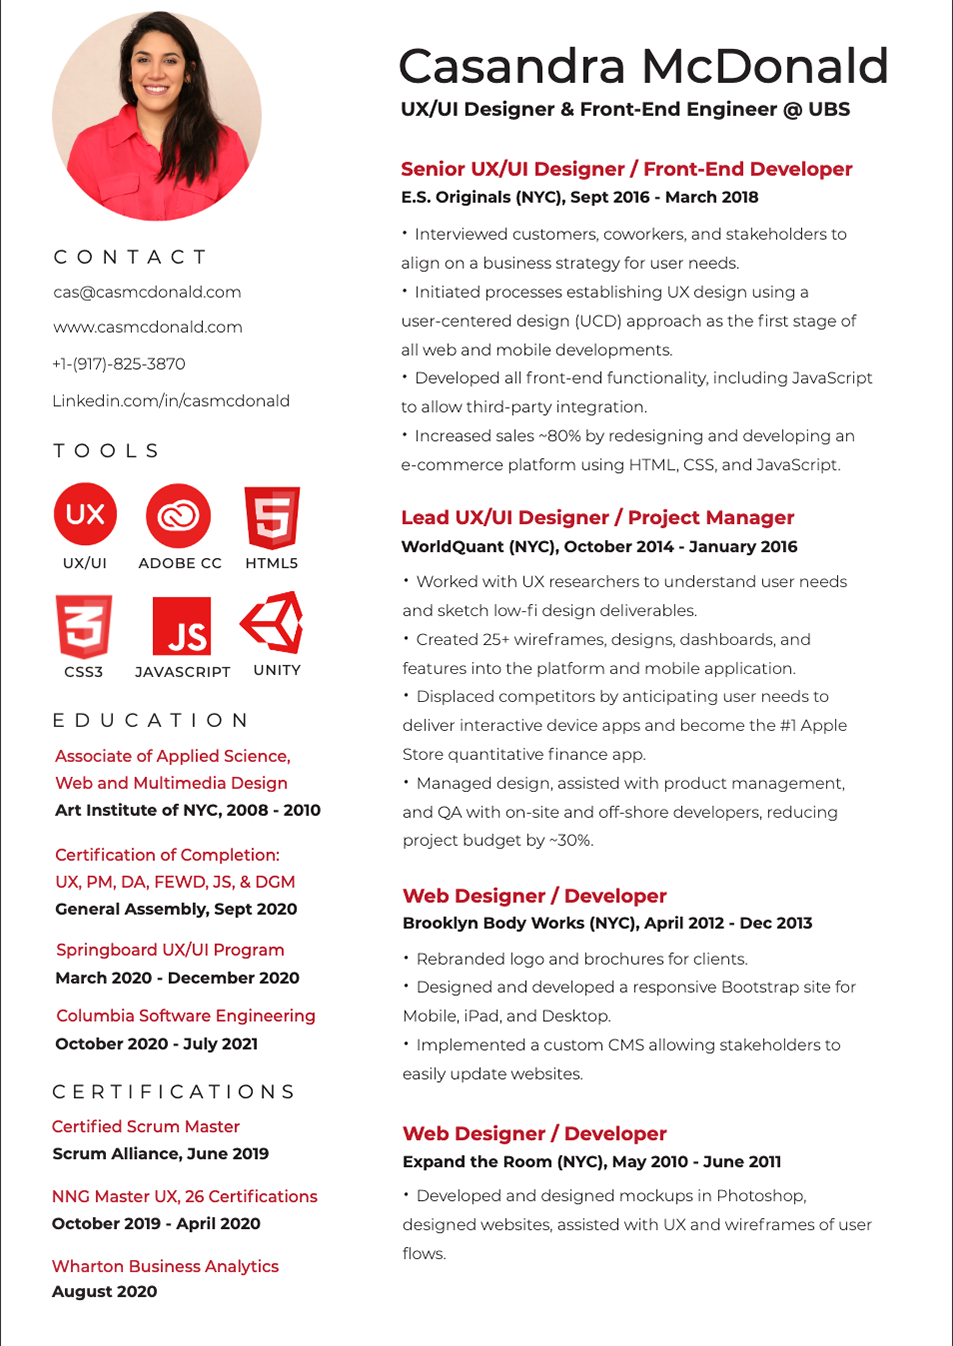
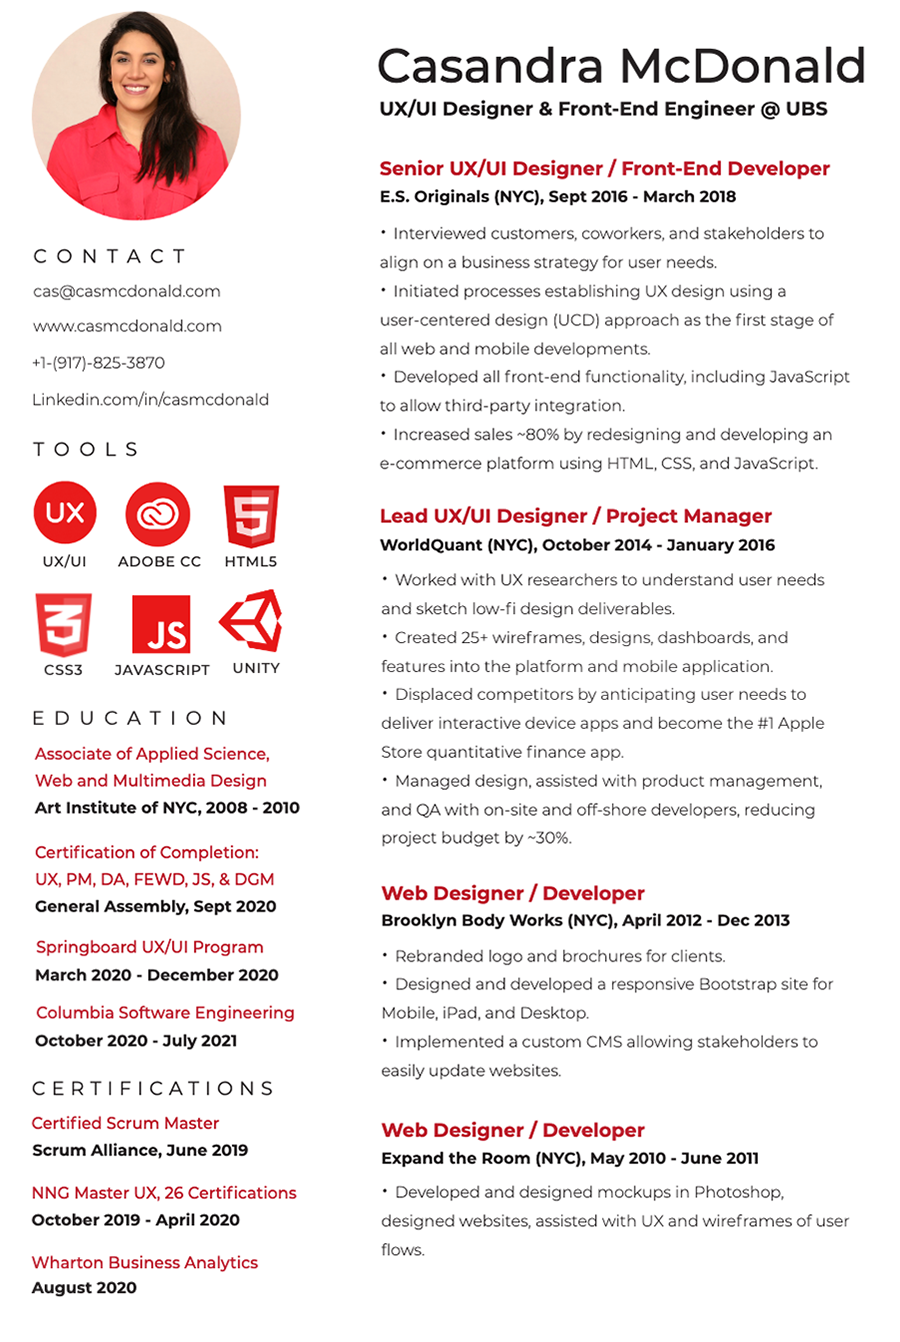
updates to padding, added resume images.

diff --git a/index.html b/index.html
@@ -31,14 +31,8 @@
             <img src="assets/images/cas.jpg" alt="Cas Profile Photo"></img>
           </figure>
           <p><strong>Casandra McDonald</strong> is a NN/g Master Certified UX / UI Designer and Front-End Web Engineer, with over 10+ years of experience based in New York City. Her goal is to help business grow by designing and developing web and native applications. She currently runs her own consulting business as a designer and developer for clients based in NYC, specializing in the finance and e-commerce industries.</p>
-        </section>
-        <section>
           <p>As a <strong>UX designer</strong>, I believe in user-centric design, and enforce those principles even throughout the design process. I follow the double diamond framework when starting any UX project: Discover, Design, Develop, Deliver. I work with companies on business strategy, perform competitive analysis, conduct user interviews, contextual inquiries, and usability testing. I also develop user personas, user flows, and feature prioritization with MVP focus. I possess a keen understanding of market dynamics that impact the successful launch of applications. </p>
-        </section>
-        <section>
           <p>As a <strong>UI designer</strong>, I follow all up to date HCI and W3C guidelines for accessibly on desktop and mobile applications. I would describe my work as clean, beautiful, and asthetically pleasing. I conform to a "less is more" methodology and apply that approach to reduce cognitive friction throughout all of my design deliverables. I create sketches and low, mid, and high fidelity mockups using Adobe XD and am well-versed in creating extremely detailed interactive prototypes with custom animations using XD and Principle. I frequently work with development teams to ensure pixel perfect asset delivery and create follow up documentation and style guides. </p>
-        </section>
-        <section>
           <p>As a <strong>front-end engineer</strong>, my goal is to write clean, semantic, accessible code. I work with HTML5, CSS3, JavaScript, and jQuery and PHP. I have hand coded over 200+ responsive websites and have experience building apps and APIs with the Jquery, Firebase, Node.js, Express and Heroku. I am currently in school at Columbia University Software Engineering Bootcamp until Summer 2021 to expand my existing skillset in the Full Stack Development realm. </p>
         </section>
         <hr>
@@ -46,26 +40,26 @@
           <h2>Featured Work.</h2>
           <div class="first-featured-work">
             <figure>
-              <a href="https://www.s3partners.com" target="_blank"><img src="./assets/images/first-work.png" alt="First Featured Deployed Work"></img></a>
+              <a href="https://www.s3partners.com" target="_blank"><img src="./assets/images/first-work.png" alt="First Featured Work Finance Application"></img></a>
             </figure>
             <p>Fintech app and website designed and developed in HTML/CSS/JS and Angular.</p>
           </div>
           <div class="carousel">
             <div class="carousel-item">
               <figure>
-                <a href="https://uxfol.io/project/040d8f48/Websim-iOS-App" target="_blank"> <img src="./assets/images/work-1.jpg" alt="Second Featured Work"></a>
+                <a href="https://uxfol.io/project/040d8f48/Websim-iOS-App" target="_blank"> <img src="./assets/images/work-1.jpg" alt="Second Featured Work Quant Finance App"></a>
               </figure>
               <p>Quantative Finance App case study which features UX/UI design.</p>
             </div>
             <div class="carousel-item">
               <figure>
-                <a href="https://uxfol.io/project/045f5511/Jolt" target="_blank"> <img src="./assets/images/work-2.jpg" alt="Third Featured Work"></a>
+                <a href="https://uxfol.io/project/045f5511/Jolt" target="_blank"> <img src="./assets/images/work-2.jpg" alt="Third Feature Work Music Mood Selector App"></a>
               </figure>
               <p>Music Mood Selector case study which features UX/UI design.</p>
             </div>
             <div class="carousel-item">
               <figure>
-                <a href="https://uxfol.io/project/0489b407/Thrive" target="_blank"><img src="./assets/images/work-3.jpg" alt="Fourth Featured Work"></a>
+                <a href="https://uxfol.io/project/0489b407/Thrive" target="_blank"><img src="./assets/images/work-3.jpg" alt="Fourth Featured Work Social Gaming App"></a>
               </figure>
               <p>Social Gaming App UX/UI case study designed for the React Framework.</p>
           </div>
@@ -74,6 +68,14 @@
        <hr>
        <section id="resume">
          <h2>Resume.</h2>
+         <div class="resume-img-container">
+           <figure>
+             <img src="./assets/images/cas-resume-front.png" alt="Front of Cas' Resume">
+           </figure>
+           <figure>
+             <img src="./assets/images/cas-resume-back.png" alt="Back of Cas' Resume">
+           </figure>
+         </div>
          <p>Click the button below to download my resume! :)</p>
          <button>
            <a id="download" href="https://storage.googleapis.com/uxfolio/5cd9ddd5a1bc170004222e60/cv/Casandra-McDonald-Resume_efO.pdf" target="_blank">Download my resume</a>

diff --git a/assets/css/style.css b/assets/css/style.css
@@ -206,10 +206,23 @@ button {
   padding-top: 10px;
 }
 
+.resume-img-container{
+  display: flex;
+  padding-bottom: 10px;
+}
+
+.resume-img-container img{
+  height: 350px;
+  box-shadow: 5px 5px 5px #ccc;
+  -moz-box-shadow: 5px 5px 5px #ccc;
+  -webkit-box-shadow: 5px 5px 5px #ccc;
+}
+
 #profile {
   display: flex;
   flex-direction: column;
   align-items: center;
+  padding-bottom: 130px;
 }
 
 #profile img{
@@ -226,11 +239,13 @@ button {
 }
 
 #work{
-  padding-top: 120px;
+  padding-top: 130px;
+  padding-bottom: 120px;
 }
 
 #resume {
   padding-top: 120px;
+  padding-bottom: 120px;
   display: flex;
   flex-direction: column;
   align-items: center;
@@ -238,11 +253,12 @@ button {
 
 #resume p{
   text-align: center;
-  padding-bottom: 20px;
+  padding-bottom: 10px;
 }
 
 #download{
   color: var(--white);
+  padding-bottom: 20px;
 }
 
 #contact{
